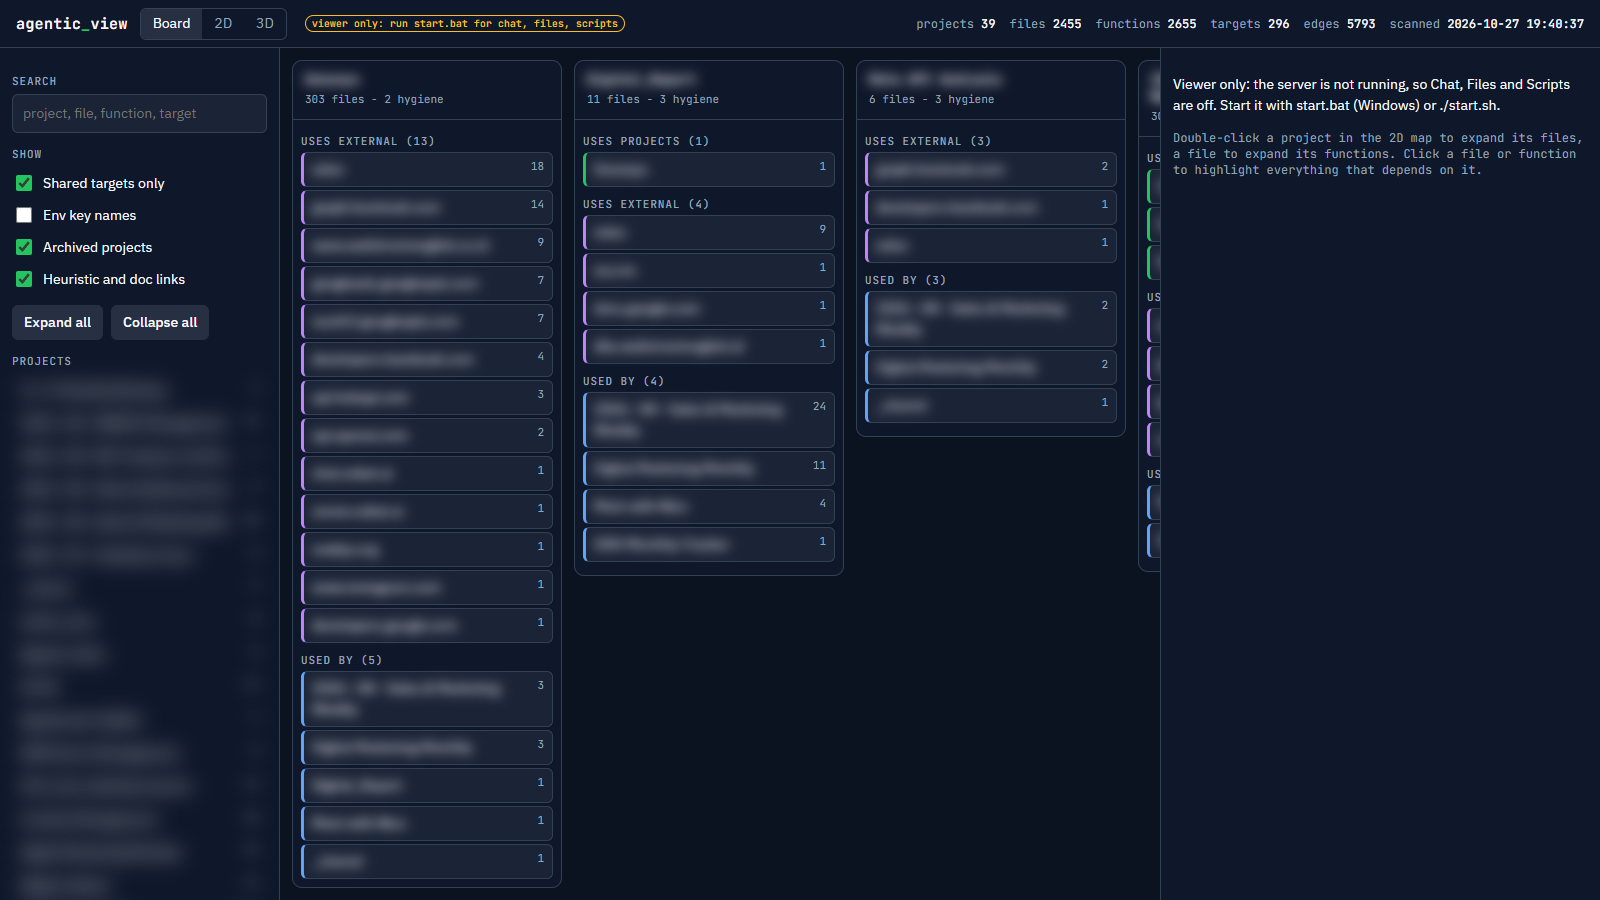
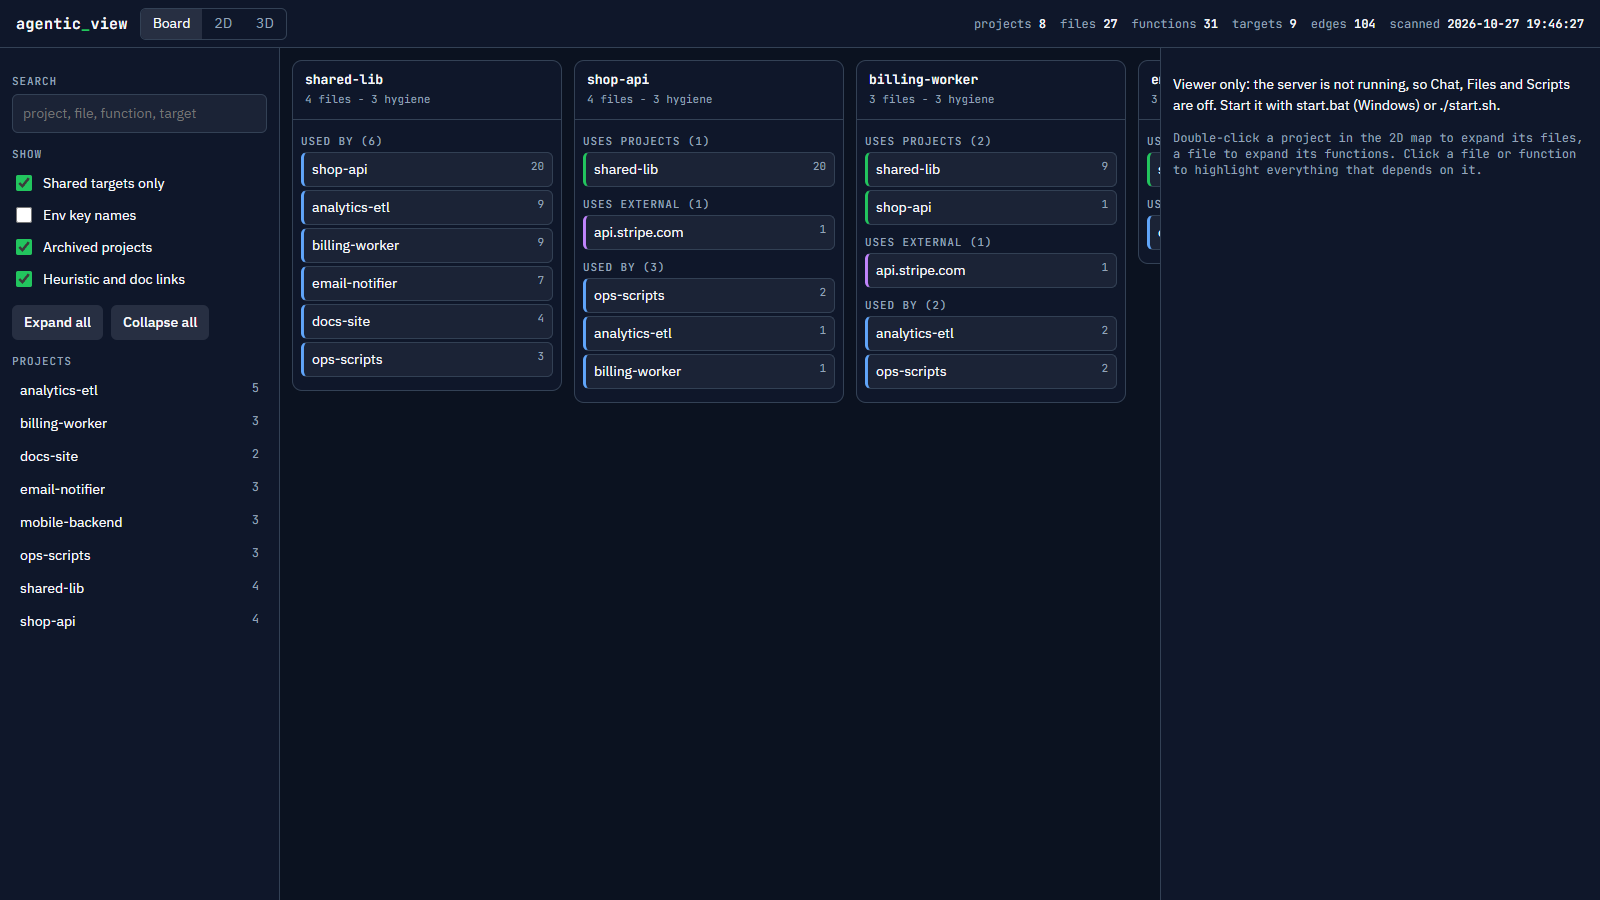
docs: README screenshots use a made-up demo project set (board, 2D map, 3D map)

diff --git a/README.md b/README.md
@@ -2,7 +2,13 @@
 
 Scan a folder of projects and see how they connect. Agentic View builds a dependency map (imports, function calls, scripts that run other scripts, projects that read each other's files, shared external systems) and lets you manage those projects from one page.
 
-![Board view, project and host names blurred](docs/board.png)
+![Board view of a demo set of projects](docs/board.png)
+
+| 2D map | 3D map |
+|---|---|
+| ![2D map of a demo set of projects](docs/map-2d.png) | ![3D map of a demo set of projects](docs/map-3d.png) |
+
+Screenshots use a made-up set of eight demo projects.
 
 ## Why
 Each project has its own focus and its own tasks, so an agent working on one should not load the others. Agentic View keeps agents small to cut token usage:
